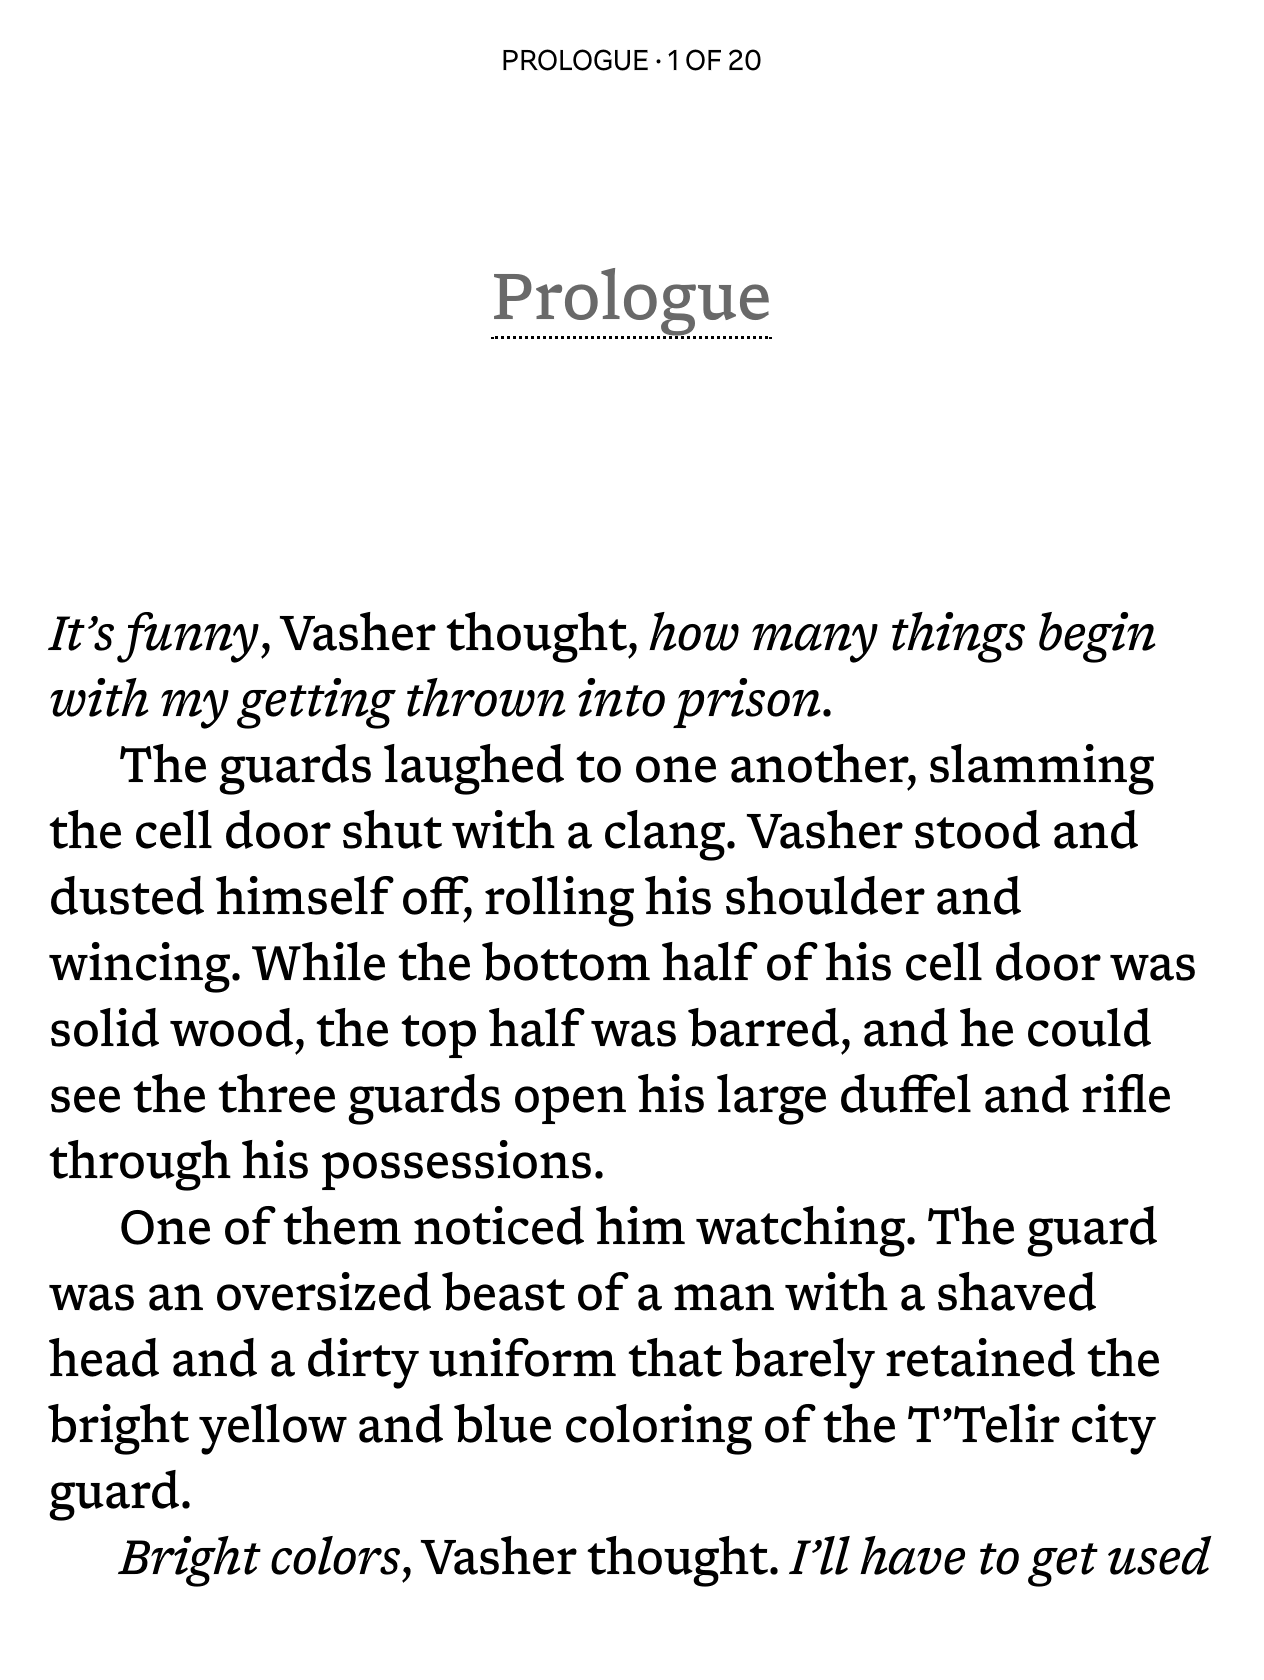
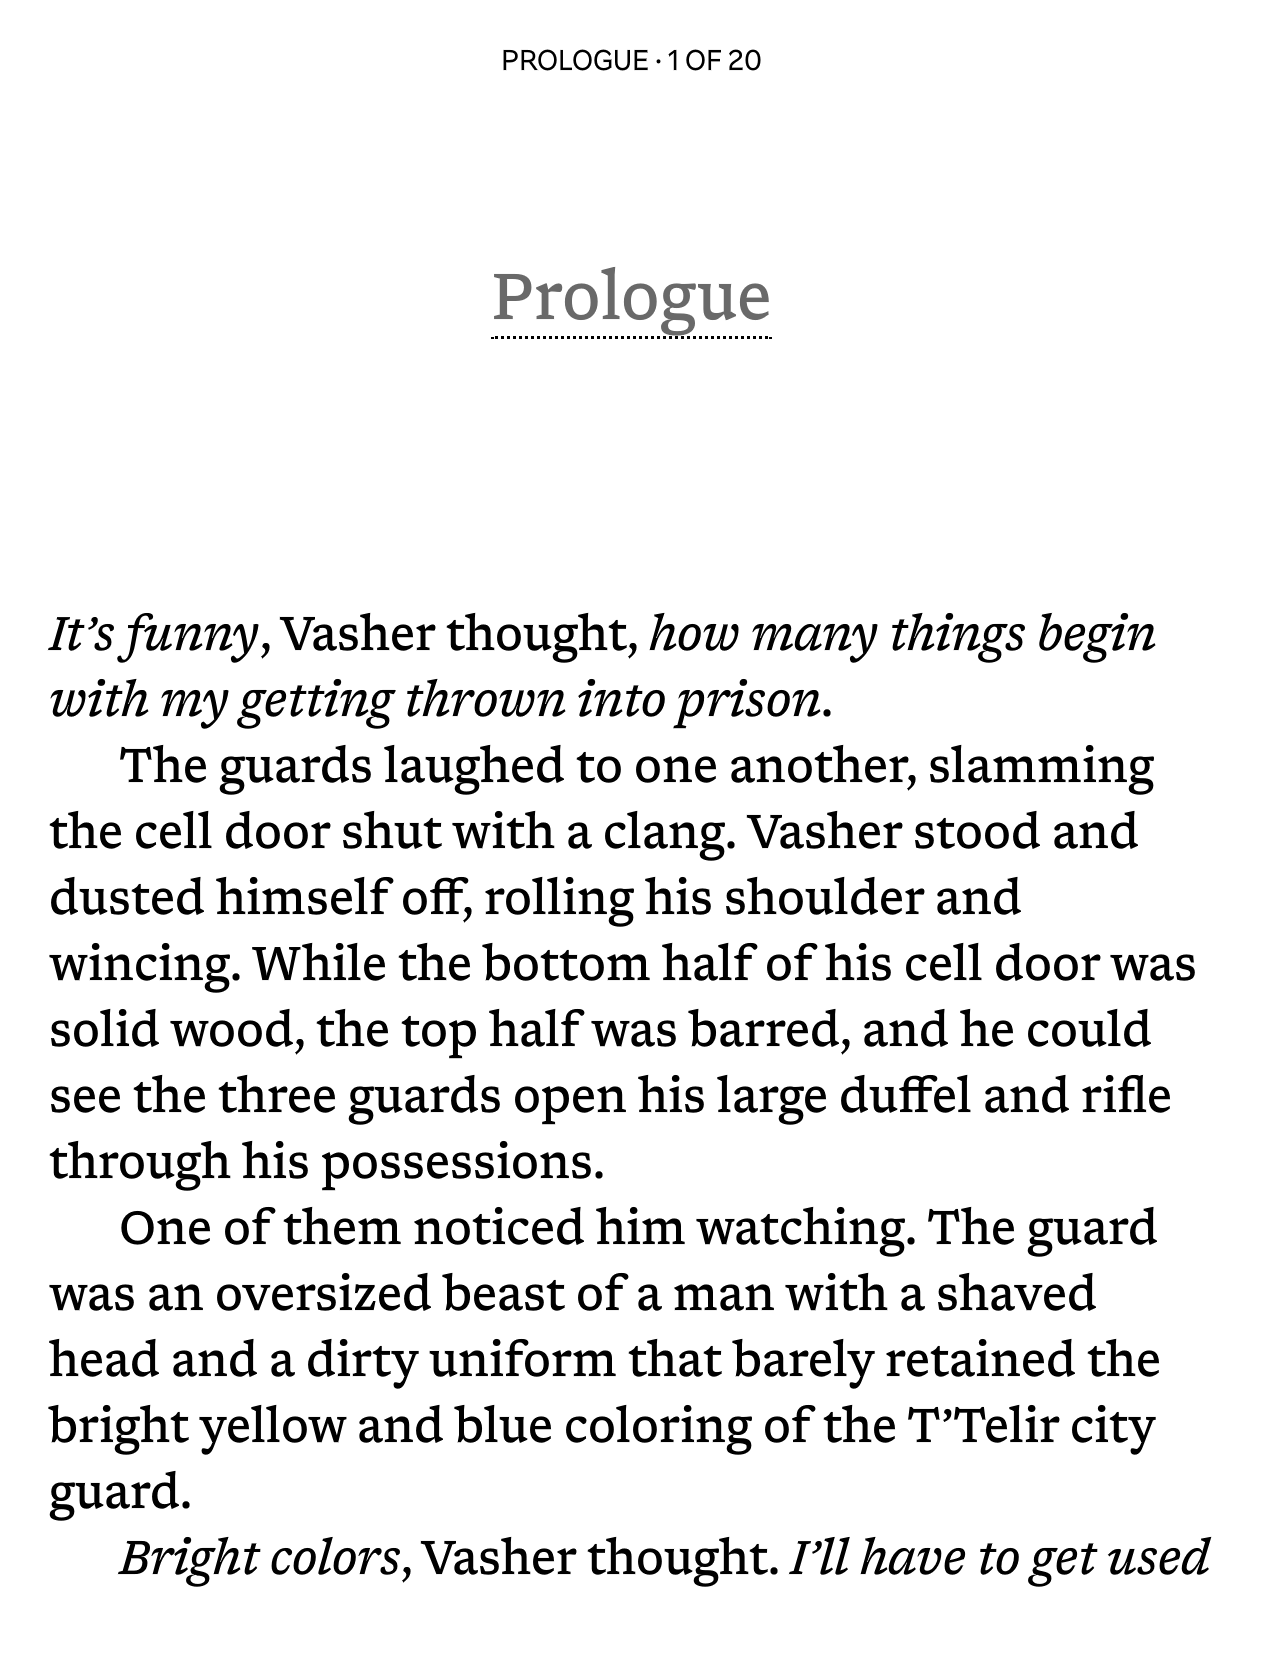
Update hinting again

diff --git a/build.py b/build.py
@@ -90,20 +90,32 @@ SELECTION_HEIGHT = 1.3
 ASCENDER_RATIO = 0.8
 
 # Step 4: ttfautohint options (hinting for Kobo's FreeType renderer)
-# - Kobo uses FreeType grayscale on e-ink, where gray pixels are very
-#   visible. Strong mode (s) snaps stems to integer pixels, minimising
-#   gray anti-aliasing at the cost of some shape distortion.
-# - Other options are left at ttfautohint defaults.
+# - Kobo uses FreeType grayscale, so the 1st char of --stem-width-mode
+#   matters: n=natural (least distortion), q=quantized, s=strong.
+# - x-height snapping is disabled to avoid inconsistent glyph heights.
 AUTOHINT_OPTS = [
     "--no-info",
-    "--stem-width-mode=qss",
+    "--stem-width-mode=nss",
+    "--increase-x-height=0",
+    '--x-height-snapping-exceptions=-',
 ]
 
-# Serif shelf detection: points within this distance (in font units)
-# inward from a blue zone edge get `left`/`right` direction hints so
-# ttfautohint creates explicit segments instead of interpolating them.
-# This fixes gray ghosting at serif feet (bottom) and tops (e.g. w, v).
-SERIF_SHELF_INSET = 160  # how far the shelf can be from the blue zone
+# Baseline alignment: deepen the bottom anti-aliasing of non-serifed
+# glyphs via hinting-only touch deltas (no outline changes).  This
+# shifts their bottom points down during rasterization so they produce
+# more gray below the baseline, visually matching serifed characters.
+# Each entry is (shift_px, ppem_min, ppem_max).  Shifts are in pixels
+# (multiples of 1/8, max 1.0).  Set to empty list to disable.
+BASELINE_HINT_SHIFTS = [
+    (0.125, 6, 53),
+]
+
+# Per-glyph Y ceiling: cap the top of specific glyphs to reduce
+# oversized or awkward serifs.  (glyph_name, max_y)
+# Points above max_y are clamped down to max_y.
+GLYPH_Y_CEILING = [
+    ("u", 1062),  # flatten tiny top serif tips to platform level
+]
 
 # Explicit kern pairs: (left_glyph, right_glyph, kern_value_in_units).
 # Negative values tighten spacing. These are added on top of any existing
@@ -754,54 +766,75 @@ def add_kern_pairs(ttf_path):
     print(f"  Added {count} kern pair(s) to GPOS")
 
 
-def _generate_serif_ctrl(ttf_path):
-    """Generate ttfautohint control instructions for serif shelf points.
 
-    Scans the font for glyph points near (but not on) blue zone edges
-    — the serif "shelves" that ttfautohint doesn't detect as segments.
-    Without explicit hints these get interpolated to fractional pixel
-    positions, causing gray ghosting on e-ink.
+def apply_glyph_y_ceiling(ttf_path):
+    """Clamp glyph points above a Y ceiling down to the ceiling value."""
+    if not GLYPH_Y_CEILING:
+        return
 
-    Bottom shelves (near baseline y=0) get `left` direction hints.
-    Top shelves (near x-height) get `right` direction hints.
-    """
     from fontTools.ttLib import TTFont
     font = TTFont(ttf_path)
     glyf = font["glyf"]
-    os2 = font["OS/2"]
-    x_height = getattr(os2, "sxHeight", None) or 0
+    modified = []
 
-    # Blue zone edges: (zone_y, tolerance, inset, direction)
-    # - tolerance: how close a glyph's "flat edge" must be to zone_y
-    # - inset: how far inward the shelf can be from the flat edge
-    # - direction: left = bottom shelf, right = top shelf
-    zones = [
-        # (zone_y, tolerance, inset, direction)
-        # tolerance: how close a glyph's flat edge must be to count
-        # inset: how far the shelf can be from the zone
-        # Shelf points are between zone_y±inset and zone_y±tolerance.
-        (0, 0, SERIF_SHELF_INSET, "left"),
-    ]
-    if x_height:
-        zones.append((x_height, 25, SERIF_SHELF_INSET, "right"))
+    for glyph_name, max_y in GLYPH_Y_CEILING:
+        g = glyf.get(glyph_name)
+        if not g or not g.numberOfContours or g.numberOfContours <= 0:
+            continue
+        coords = g.coordinates
+        clamped = 0
+        for j in range(len(coords)):
+            if coords[j][1] > max_y:
+                coords[j] = (coords[j][0], max_y)
+                clamped += 1
+        if clamped:
+            modified.append(f"{glyph_name}({clamped}pts)")
 
+    if modified:
+        font.save(ttf_path)
+        print(f"  Clamped Y ceiling: {', '.join(modified)}")
+    font.close()
+
+
+def _generate_baseline_shift_ctrl(ttf_path):
+    """Generate touch deltas to deepen bottom anti-aliasing of non-serifed glyphs.
+
+    For lowercase glyphs without a flat baseline (no serif foot), shifts
+    the bottom-most points down during rasterization.  Uses graduated
+    shifts from BASELINE_HINT_SHIFTS — stronger at small ppem sizes
+    where alignment is most noticeable.  No outline changes.
+    """
+    if not BASELINE_HINT_SHIFTS:
+        return ""
+
+    from fontTools.ttLib import TTFont
+    font = TTFont(ttf_path)
+    glyf = font["glyf"]
+    cmap = font.getBestCmap()
     lines = []
-    for name in sorted(glyf.keys()):
+
+    for char in "abcdefghijklmnopqrstuvwxyz":
+        code = ord(char)
+        if code not in cmap:
+            continue
+        name = cmap[code]
         g = glyf[name]
         if not g.numberOfContours or g.numberOfContours <= 0:
             continue
         coords = g.coordinates
         ys = set(c[1] for c in coords)
-        for zone_y, tolerance, inset, direction in zones:
-            # Glyph must have a point near the blue zone edge
-            has_edge = any(abs(y - zone_y) <= tolerance for y in ys)
-            if not has_edge:
-                continue
-            for i, (x, y) in enumerate(coords):
-                if direction == "left" and 0 < y <= inset:
-                    lines.append(f"{name} left {i}")
-                elif direction == "right" and zone_y - inset <= y < zone_y - tolerance:
-                    lines.append(f"{name} right {i}")
+        if 0 in ys:
+            continue  # has serif baseline
+        bottom_pts = [i for i, (x, y) in enumerate(coords) if y <= 0]
+        if not bottom_pts:
+            continue
+        pts_str = ", ".join(str(p) for p in bottom_pts)
+        for shift_px, ppem_min, ppem_max in BASELINE_HINT_SHIFTS:
+            shift = -abs(shift_px)
+            lines.append(
+                f"{name} touch {pts_str} yshift {shift:.3f} @ {ppem_min}-{ppem_max}"
+            )
+
     font.close()
     return "\n".join(lines)
 
@@ -821,15 +854,15 @@ def autohint_ttf(ttf_path):
     The resulting bytecode is baked into the font, so FreeType uses
     the TrueType interpreter instead of falling back to auto-hinting.
 
-    Additionally generates per-font control instructions for serif
-    shelf points that the auto-hinter would otherwise interpolate.
+    Additionally generates per-font touch deltas to deepen the
+    baseline anti-aliasing of non-serifed glyphs.
     """
     if not shutil.which("ttfautohint"):
         print("  [warn] ttfautohint not found, skipping", file=sys.stderr)
         return
 
     # Generate control instructions for this specific font's points
-    ctrl_text = _generate_serif_ctrl(ttf_path)
+    ctrl_text = _generate_baseline_shift_ctrl(ttf_path)
     ctrl_path = ttf_path + ".ctrl.tmp"
     ctrl_count = 0
     opts = list(AUTOHINT_OPTS)
@@ -1064,6 +1097,7 @@ def _build(tmp_dir, family=DEFAULT_FAMILY, outline_fix=True):
             clean_ttf_degenerate_contours(ttf_path)
         fix_ttf_style_flags(ttf_path, style_suffix)
         add_kern_pairs(ttf_path)
+        apply_glyph_y_ceiling(ttf_path)
         autohint_ttf(ttf_path)
 
 
